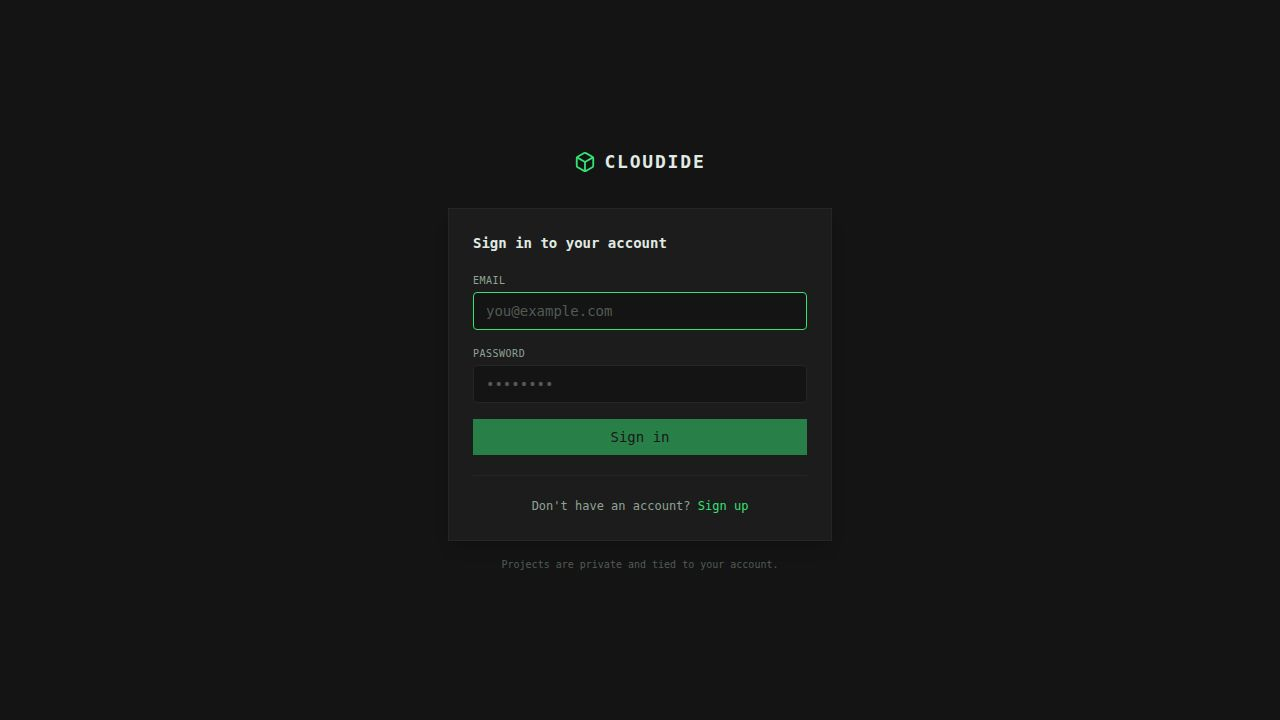
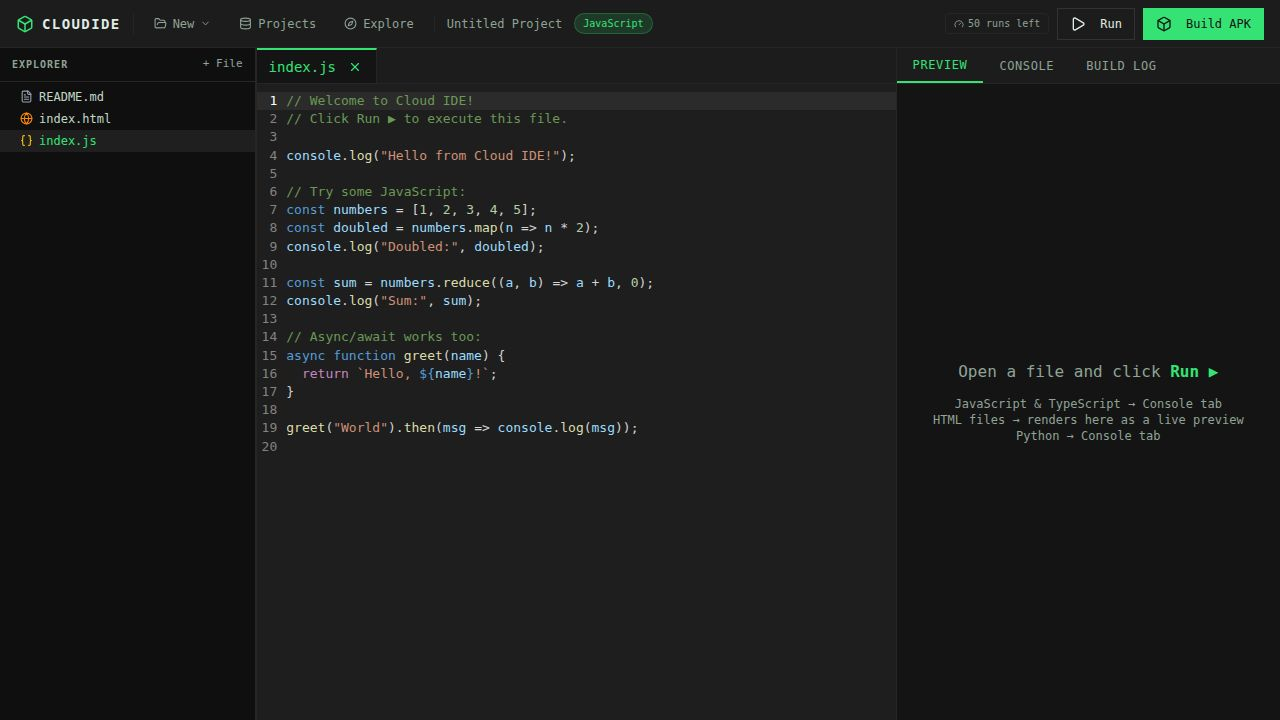
Improve preview panel instructions and project type detection
Update the preview panel to display relevant instructions for web projects and adjust the default project type detection from "flutter" to "web" in the useBuild hook and detectProjectType function.

Replit-Commit-Author: Agent
Replit-Commit-Session-Id: 70a55442-9695-4a08-be9a-0ab53b203c5b
Replit-Commit-Checkpoint-Type: full_checkpoint
Replit-Commit-Event-Id: 91875652-585f-440d-ac52-31e1f1477cd4
Replit-Commit-Screenshot-Url: https://storage.googleapis.com/screenshot-production-us-central1/b38dc9cb-6c3b-49b6-b4f1-c7455ce36ff1/70a55442-9695-4a08-be9a-0ab53b203c5b/SEcHmcM
Replit-Helium-Checkpoint-Created: true

diff --git a/artifacts/cloud-ide/src/components/PreviewPanel.tsx b/artifacts/cloud-ide/src/components/PreviewPanel.tsx
@@ -158,12 +158,18 @@ function PreviewContent({
             <p>Flutter apps cannot run directly in browser preview.</p>
             <p className="mt-2 text-primary">Click <span className="font-bold">Build APK</span> to compile.</p>
           </>
+        ) : projectType === "android" ? (
+          <>
+            <p>Android apps require a native build.</p>
+            <p className="mt-2 text-primary text-xs">Click <span className="font-bold">Build APK</span> to compile.</p>
+          </>
         ) : (
           <>
-            <p>No browser preview for this project type.</p>
-            <p className="mt-2 text-primary text-xs">
-              Use <span className="font-bold">Run</span> to execute code or{" "}
-              <span className="font-bold">Build APK</span> to compile.
+            <p className="text-base">Open a file and click <span className="text-primary font-bold">Run ▶</span></p>
+            <p className="text-xs mt-1">
+              JavaScript &amp; TypeScript → Console tab<br />
+              HTML files → renders here as a live preview<br />
+              Python → Console tab
             </p>
           </>
         )}

diff --git a/artifacts/cloud-ide/src/hooks/useBuild.ts b/artifacts/cloud-ide/src/hooks/useBuild.ts
@@ -22,7 +22,8 @@ function detectProjectType(files: Record<string, string>): string {
     paths.some((p) => p.endsWith("build.gradle") || p.endsWith("gradlew"))
   )
     return "android";
-  return "flutter"; // default
+  // Plain JS/TS/Python/HTML — runnable in sandbox, no APK build needed
+  return "web";
 }
 
 export interface BuildResult {
@@ -38,7 +39,7 @@ export function useBuild() {
   const [isBuilding, setIsBuilding] = useState(false);
   const [jobId, setJobId] = useState<string | null>(null);
   const [error, setError] = useState<string | null>(null);
-  const [projectType, setProjectType] = useState<string>("flutter");
+  const [projectType, setProjectType] = useState<string>("web");
   const [previewData, setPreviewData] = useState<{
     embedUrl: string;
     qrUrl: string;